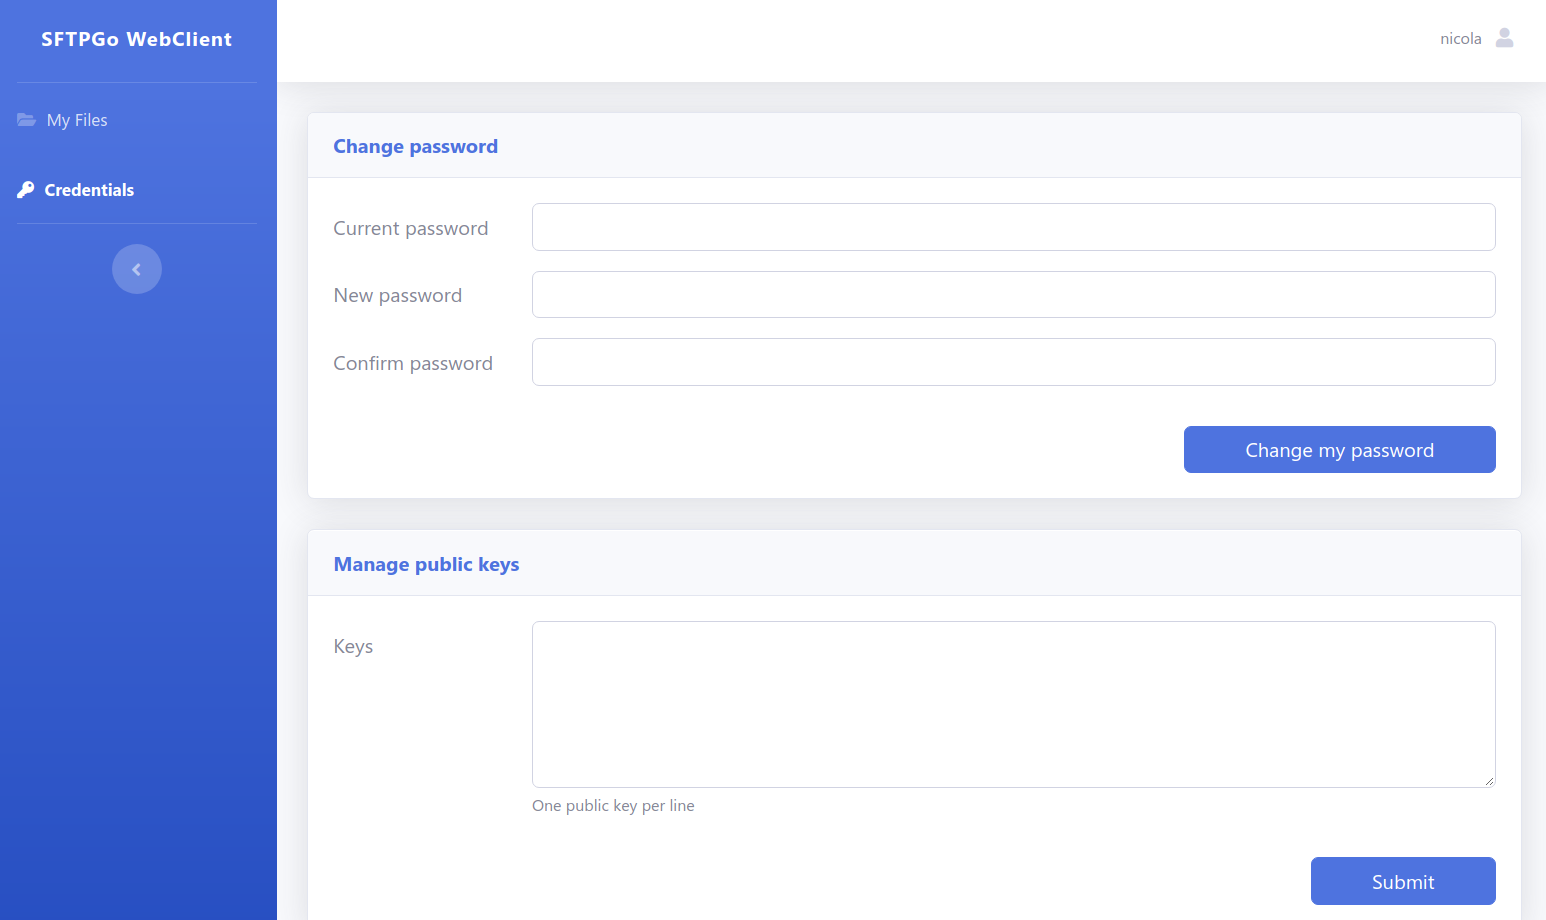
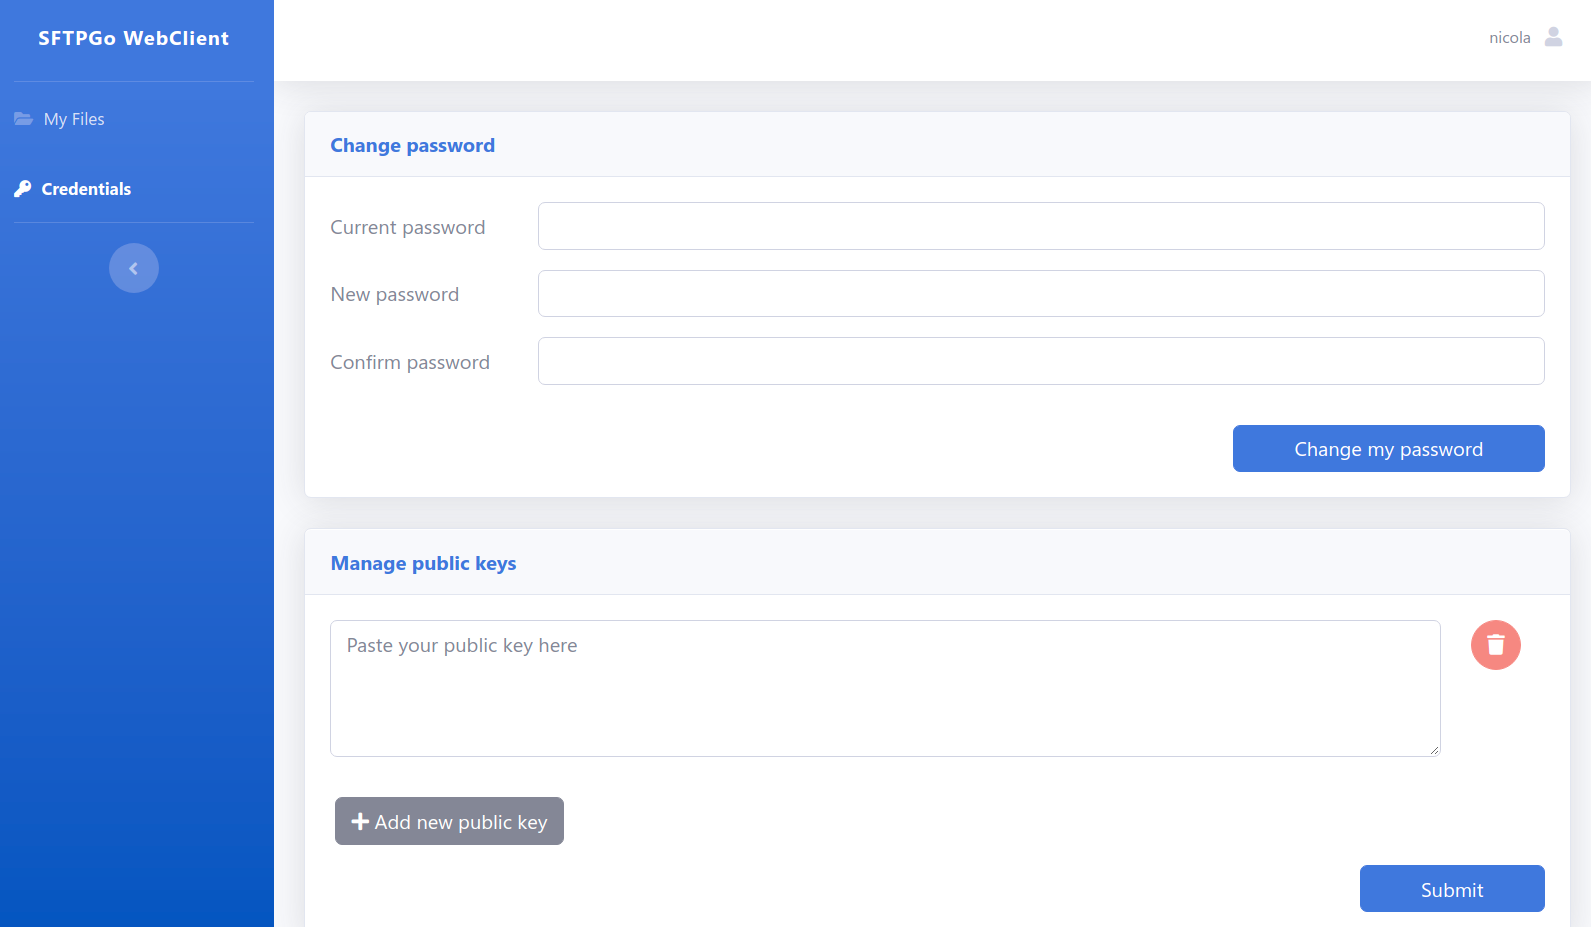
try to improve web client credentials page
I should do the same for the admin page too

diff --git a/templates/webclient/credentials.html b/templates/webclient/credentials.html
@@ -53,16 +53,40 @@
         </div>
         {{end}}
         <form id="key_form" action="{{.ManageKeysURL}}" method="POST">
-
             <div class="form-group row">
-                <label for="idPublicKeys" class="col-sm-2 col-form-label">Keys</label>
-                <div class="col-sm-10">
-                    <textarea class="form-control" id="idPublicKeys" name="public_keys" rows="5"
-                        aria-describedby="pkHelpBlock">{{range .PublicKeys}}{{.}}&#10;{{end}}</textarea>
-                    <small id="pkHelpBlock" class="form-text text-muted">
-                        One public key per line
-                    </small>
+                <div class="col-md-12 form_field_pk_outer">
+                    {{range $idx, $val := .PublicKeys}}
+                    <div class="row form_field_pk_outer_row">
+                        <div class="form-group col-md-11">
+                            <textarea class="form-control" id="idPublicKey{{$idx}}" name="public_keys" rows="4"
+                                placeholder="Paste your public key here">{{$val}}</textarea>
+                        </div>
+                        <div class="form-group col-md-1">
+                            <button class="btn btn-circle btn-danger remove_pk_btn_frm_field" {{if eq $idx 0}}disabled{{end}}>
+                                <i class="fas fa-trash"></i>
+                            </button>
+                        </div>
+                    </div>
+                    {{else}}
+                    <div class="row form_field_pk_outer_row">
+                        <div class="form-group col-md-11">
+                            <textarea class="form-control" id="idPublicKey0" name="public_keys" rows="4"
+                                placeholder="Paste your public key here"></textarea>
+                        </div>
+                        <div class="form-group col-md-1">
+                            <button class="btn btn-circle btn-danger remove_pk_btn_frm_field" disabled>
+                                <i class="fas fa-trash"></i>
+                            </button>
+                        </div>
+                    </div>
+                    {{end}}
                 </div>
+            </div>
+
+            <div class="row mx-1">
+                <button type="button" class="btn btn-secondary add_new_pk_field_btn">
+                    <i class="fas fa-plus"></i> Add new public key
+                </button>
             </div>
 
             <input type="hidden" name="_form_token" value="{{.CSRFToken}}">
@@ -71,4 +95,34 @@
     </div>
 </div>
 {{end}}
+{{end}}
+
+{{define "extra_js"}}
+<script type="text/javascript">
+    $(document).ready(function () {
+        $("body").on("click", ".add_new_pk_field_btn", function () {
+            var index = $(".form_field_pk_outer").find(".form_field_pk_outer_row").length;
+            $(".form_field_pk_outer").append(`
+                    <div class="row form_field_pk_outer_row">
+                        <div class="form-group col-md-11">
+                            <textarea class="form-control" id="idPublicKey${index}" name="public_keys" rows="4"
+                                placeholder="Paste your public key here"></textarea>
+                        </div>
+                        <div class="form-group col-md-1">
+                            <button class="btn btn-circle btn-danger remove_pk_btn_frm_field" disabled>
+                                <i class="fas fa-trash"></i>
+                            </button>
+                        </div>
+                    </div>
+        `);
+
+            $(".form_field_pk_outer").find(".remove_pk_btn_frm_field:not(:first)").prop("disabled", false);
+            $(".form_field_pk_outer").find(".remove_pk_btn_frm_field").first().prop("disabled", true);
+        });
+
+        $("body").on("click", ".remove_pk_btn_frm_field", function () {
+            $(this).closest(".form_field_pk_outer_row").remove();
+        });
+    });
+</script>
 {{end}}

diff --git a/dataprovider/dataprovider.go b/dataprovider/dataprovider.go
@@ -1271,12 +1271,18 @@ func validatePublicKeys(user *User) error {
 	if len(user.PublicKeys) == 0 {
 		user.PublicKeys = []string{}
 	}
+	var validatedKeys []string
 	for i, k := range user.PublicKeys {
+		if k == "" {
+			continue
+		}
 		_, _, _, _, err := ssh.ParseAuthorizedKey([]byte(k))
 		if err != nil {
 			return &ValidationError{err: fmt.Sprintf("could not parse key nr. %d: %s", i, err)}
 		}
+		validatedKeys = append(validatedKeys, k)
 	}
+	user.PublicKeys = validatedKeys
 	return nil
 }
 

diff --git a/httpd/webclient.go b/httpd/webclient.go
@@ -370,9 +370,7 @@ func handleWebClientManageKeysPost(w http.ResponseWriter, r *http.Request) {
 		renderCredentialsPage(w, r, "", err.Error())
 		return
 	}
-	publicKeysFormValue := r.Form.Get("public_keys")
-	publicKeys := getSliceFromDelimitedValues(publicKeysFormValue, "\n")
-	user.PublicKeys = publicKeys
+	user.PublicKeys = r.Form["public_keys"]
 	err = dataprovider.UpdateUser(&user)
 	if err != nil {
 		renderCredentialsPage(w, r, "", err.Error())
